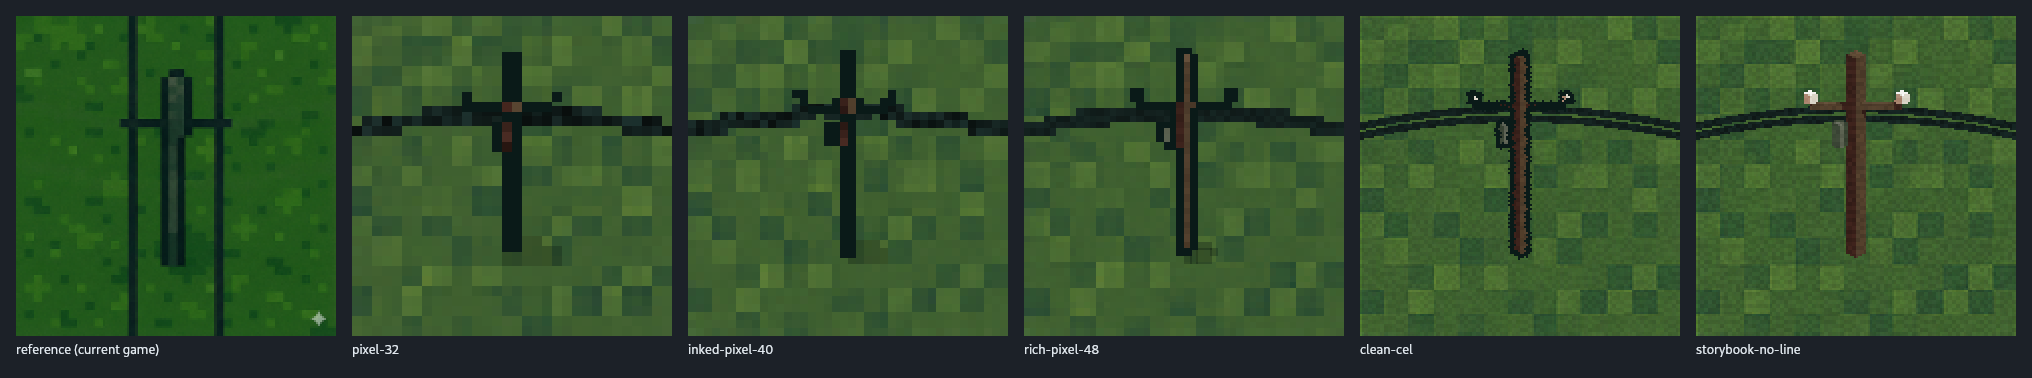
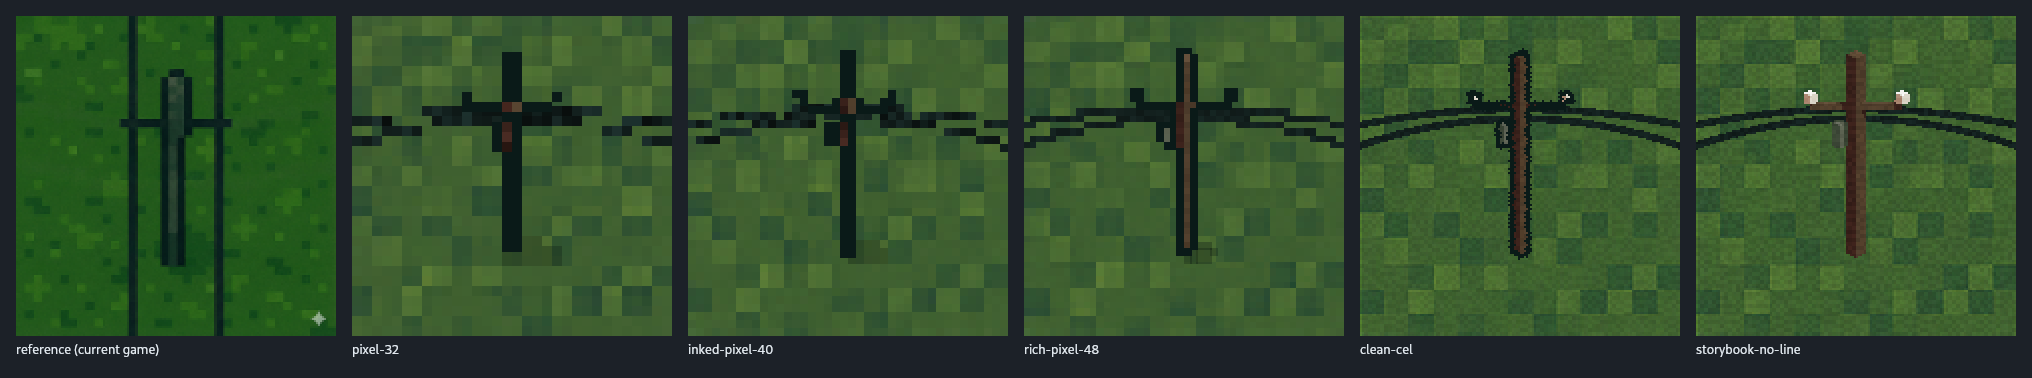
fix(studio): fan the EW hydro wires so both read distinctly
Same crossarm attachment (upper wire on the bar, lower at its
underside) but different catenary depths (0.20 / 0.34) — the pair stays
tight at the pole and fans visibly apart toward the tile edges, keeping
the attachment without collapsing into one thick line. Packed sprites
and demo refreshed.

diff --git a/studio/scenes/power.py b/studio/scenes/power.py
@@ -24,10 +24,11 @@ VARIANT = 'ns'
 
 WIRE_OFFSET = 0.56   # the pole's crossarm-tip gauge — wires attach there
 WIRE_W = 0.09
-SAG = 0.22           # catenary dip at the tile edge (elevation-view wires)
-EW_ANCHORS = (0.84, 0.72)  # both wires hang from the single crossarm's two
-                           # ends — the upper lies on the arm bar (screen
-                           # ~46.5), the lower tucks at its underside
+# (anchor height at the pole, catenary dip at the tile edge). Both wires
+# attach at the crossarm — the upper on the bar, the lower at its underside —
+# but sag by different amounts, so the pair stays tight at the pole and fans
+# visibly apart toward the edges: attached AND clearly two wires.
+EW_WIRES = ((0.84, 0.20), (0.72, 0.34))
 
 
 def build(mats):
@@ -38,12 +39,12 @@ def build(mats):
         # Sagging elevation-view wires: segmented along x, dipping toward the
         # edges; adjacent tiles continue the curve, kinking at each pole.
         segments = 16
-        for anchor in EW_ANCHORS:
+        for anchor, sag in EW_WIRES:
             for i in range(segments):
                 x0 = -2.05 + 4.1 * i / segments
                 x1 = -2.05 + 4.1 * (i + 1) / segments
-                y0 = anchor - SAG * (x0 / 2) ** 2
-                y1 = anchor - SAG * (x1 / 2) ** 2
+                y0 = anchor - sag * (x0 / 2) ** 2
+                y1 = anchor - sag * (x1 / 2) ** 2
                 cx, cy = (x0 + x1) / 2, (y0 + y1) / 2
                 length = math.hypot(x1 - x0, y1 - y0)
                 box(mats, 'wire', (cx, cy, 0.06), (length + 0.02, WIRE_W, 0.04),
